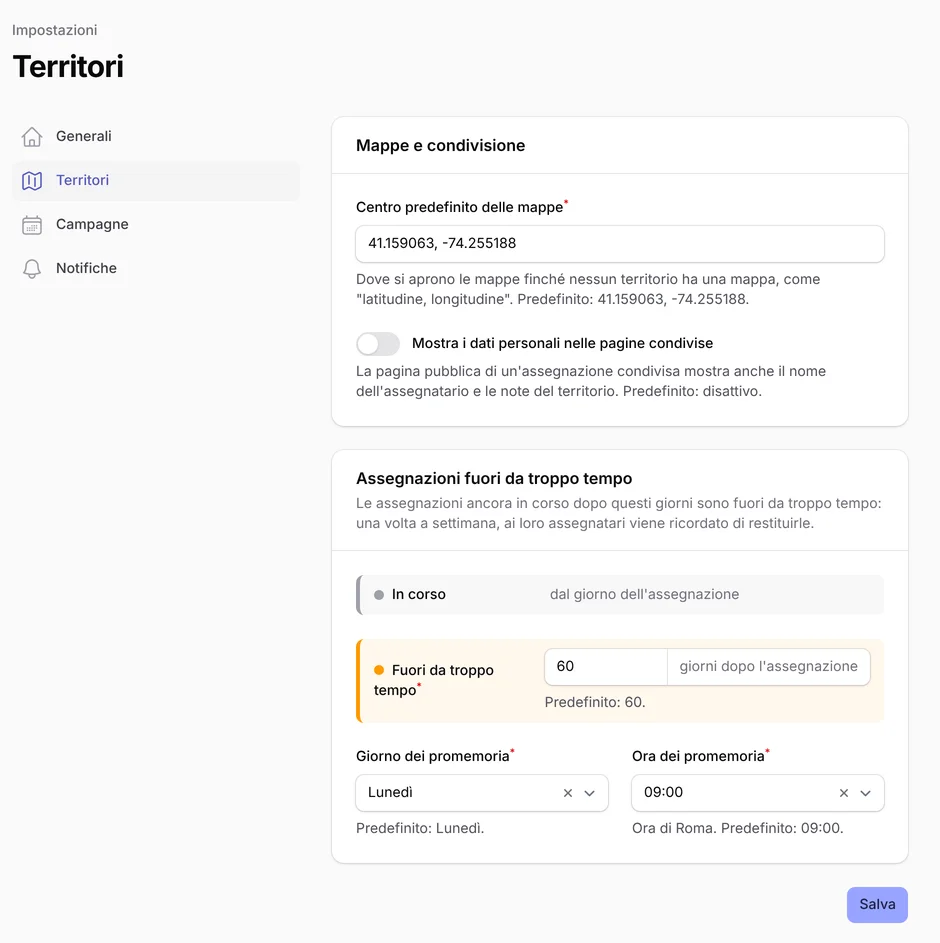
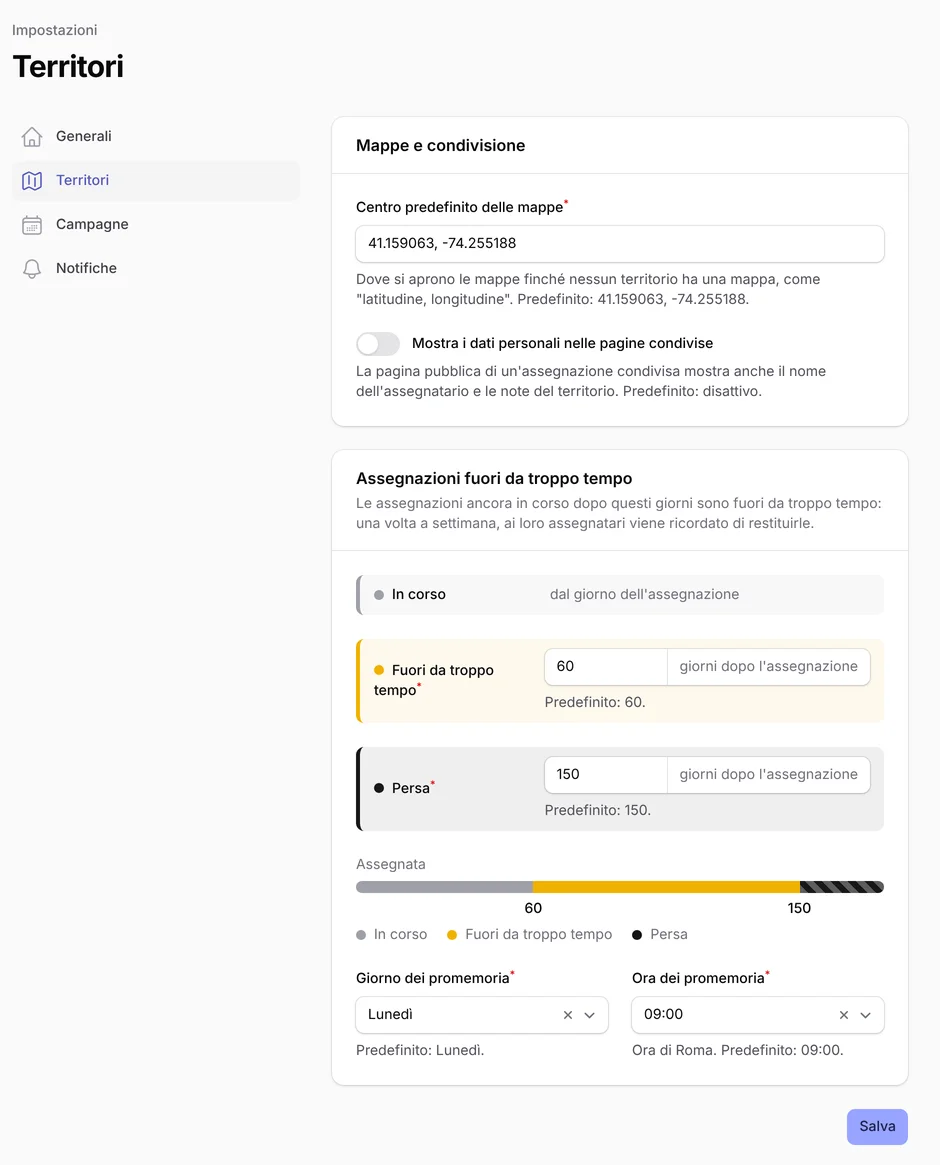
refactor: keep two stale assignment levels
Restore the stale levels removed in 51572a1, keeping only "out for too
long" (60 days) and "lost" (150 days).

diff --git a/tests/Feature/SettingsPageTest.php b/tests/Feature/SettingsPageTest.php
@@ -303,15 +303,18 @@ test('the primary colour must be a hex colour', function () {
         ->assertHasFormErrors(['primary_color']);
 });
 
-test('the days set on the page are used to find the assignments out for too long', function () {
+test('the stale assignment levels are used to find the assignments out for too long', function () {
     actingAsSuperAdmin();
 
     Livewire::test(ManageTerritorySettings::class)
-        ->fillForm(['stale_after_days' => 30])
+        ->fillForm([
+            'stale_after_days' => 30,
+            'dead_after_days' => 75,
+        ])
         ->call('save')
         ->assertHasNoFormErrors();
 
-    expect(app(TerritorySettings::class)->stale_after_days)->toBe(30);
+    expect(array_keys((new DetectStaleAssignments)->getStaleLevels()))->toBe([30, 75]);
 
     $assignee = User::factory()->create();
     $zone = TerritoryZone::factory()->create();
@@ -334,16 +337,19 @@ test('the days set on the page are used to find the assignments out for too long
     Event::assertDispatched(StaleAssignmentDetected::class, fn (StaleAssignmentDetected $event): bool => $event->assignment->is($staleAssignment));
 });
 
-test('the days after which an assignment is out for too long must be positive', function (int $days) {
+test('the stale assignment levels must grow', function () {
     actingAsSuperAdmin();
 
     Livewire::test(ManageTerritorySettings::class)
-        ->fillForm(['stale_after_days' => $days])
+        ->fillForm([
+            'stale_after_days' => 60,
+            'dead_after_days' => 50,
+        ])
         ->call('save')
-        ->assertHasFormErrors(['stale_after_days']);
+        ->assertHasFormErrors(['dead_after_days']);
 
-    expect(app(TerritorySettings::class)->stale_after_days)->toBe(60);
-})->with(['zero' => 0, 'negative' => -5]);
+    expect(app(TerritorySettings::class)->dead_after_days)->toBe(150);
+});
 
 test('the stale assignments are checked on the chosen day and time', function () {
     actingAsSuperAdmin();
@@ -431,12 +437,14 @@ test('the campaign thresholds are shown in the order of the statuses, with a bar
         ->assertSeeHtml('fi-settings-stages-bar');
 });
 
-test('the stale assignment threshold is shown after the assignments in progress', function () {
+test('the stale assignment levels are shown in order, with a bar to scale', function () {
     actingAsSuperAdmin();
 
     Livewire::test(ManageTerritorySettings::class)
         ->assertSeeInOrder([
             __('settings.stages.in_progress'),
             __('settings.fields.stale_after_days.label'),
-        ]);
+            __('settings.fields.dead_after_days.label'),
+        ])
+        ->assertSeeHtml('fi-settings-stages-bar');
 });

diff --git a/app/Filament/Clusters/Settings/Pages/ManageTerritorySettings.php b/app/Filament/Clusters/Settings/Pages/ManageTerritorySettings.php
@@ -12,6 +12,7 @@ use Filament\Forms\Components\TextInput;
 use Filament\Forms\Components\Toggle;
 use Filament\Schemas\Components\Section;
 use Filament\Schemas\Schema;
+use Filament\Support\Colors\Color;
 use Filament\Support\Icons\Heroicon;
 
 class ManageTerritorySettings extends AppSettingsPage
@@ -38,7 +39,8 @@ class ManageTerritorySettings extends AppSettingsPage
     {
         $staleStages = [
             ['name' => __('settings.stages.in_progress'), 'color' => 'var(--gray-400)'],
-            ['name' => __('settings.fields.stale_after_days.label'), 'color' => 'var(--warning-500)', 'field' => 'stale_after_days'],
+            ['name' => __('settings.fields.stale_after_days.label'), 'color' => Color::Yellow[500], 'field' => 'stale_after_days'],
+            ['name' => __('settings.fields.dead_after_days.label'), 'color' => Color::Neutral[900], 'field' => 'dead_after_days'],
         ];
         $unit = __('settings.units.days_after_assignment');
 
@@ -74,6 +76,10 @@ class ManageTerritorySettings extends AppSettingsPage
                         $this->stageInput('stale_after_days', $staleStages[1]['name'], $staleStages[1]['color'], $unit)
                             ->minValue(1)
                             ->maxValue(3650),
+                        $this->stageInput('dead_after_days', $staleStages[2]['name'], $staleStages[2]['color'], $unit)
+                            ->maxValue(3650)
+                            ->gt('stale_after_days'),
+                        $this->stagesBar($staleStages, isCountdown: false, startLabel: __('settings.stages.assigned'), endLabel: ''),
                         Select::make('stale_check_day')
                             ->label(__('settings.fields.stale_check_day.label'))
                             ->helperText($this->defaultHint(self::dayOptions()[$this->defaultValue('stale_check_day')]))
@@ -137,7 +143,9 @@ class ManageTerritorySettings extends AppSettingsPage
         $data['shared_pii'] = (bool) $data['shared_pii'];
         $data['stale_check_day'] = (int) $data['stale_check_day'];
 
-        $data['stale_after_days'] = (int) $data['stale_after_days'];
+        foreach (['stale_after_days', 'dead_after_days'] as $property) {
+            $data[$property] = (int) $data[$property];
+        }
 
         return parent::mutateFormDataBeforeSave($data);
     }

diff --git a/app/Jobs/DetectStaleAssignments.php b/app/Jobs/DetectStaleAssignments.php
@@ -22,6 +22,22 @@ class DetectStaleAssignments implements ShouldBeUnique, ShouldQueue
         //
     }
 
+    public function getStaleLevels(): array
+    {
+        return [
+            TerritorySettings::value('stale_after_days') => [
+                'label' => 'stale',
+                'description' => 'Assignment is stale',
+                'color' => 'yellow',
+            ],
+            TerritorySettings::value('dead_after_days') => [
+                'label' => 'dead',
+                'description' => 'Assignment is dead',
+                'color' => 'black',
+            ],
+        ];
+    }
+
     /**
      * Execute the job.
      */
@@ -29,8 +45,8 @@ class DetectStaleAssignments implements ShouldBeUnique, ShouldQueue
     {
         Log::info('DetectStaleAssignments job started.');
 
-        // An assignment is stale when it has been open for longer than the days set on the Settings page
-        $staleAfterDays = TerritorySettings::value('stale_after_days');
+        // An assignment is stale when it has been open for longer than the lowest stale level
+        $staleAfterDays = min(array_keys($this->getStaleLevels()));
 
         TerritoryAssignment::query()
             // Skip the assignments whose territory (or its zone) has been deleted while still assigned

diff --git a/lang/es/settings.php b/lang/es/settings.php
@@ -17,6 +17,7 @@ return [
         'in_progress' => 'En curso',
         'in_progress_note' => 'desde el día de la asignación',
         'end_date' => 'Fecha de fin',
+        'assigned' => 'Asignada',
     ],
 
     'pages' => [
@@ -65,6 +66,9 @@ return [
         ],
         'stale_after_days' => [
             'label' => 'Fuera demasiado tiempo',
+        ],
+        'dead_after_days' => [
+            'label' => 'Perdida',
         ],
         'stale_check_day' => [
             'label' => 'Día de los recordatorios',

diff --git a/lang/it/settings.php b/lang/it/settings.php
@@ -17,6 +17,7 @@ return [
         'in_progress' => 'In corso',
         'in_progress_note' => 'dal giorno dell\'assegnazione',
         'end_date' => 'Data di fine',
+        'assigned' => 'Assegnata',
     ],
 
     'pages' => [
@@ -65,6 +66,9 @@ return [
         ],
         'stale_after_days' => [
             'label' => 'Fuori da troppo tempo',
+        ],
+        'dead_after_days' => [
+            'label' => 'Persa',
         ],
         'stale_check_day' => [
             'label' => 'Giorno dei promemoria',

diff --git a/lang/en/settings.php b/lang/en/settings.php
@@ -17,6 +17,7 @@ return [
         'in_progress' => 'In progress',
         'in_progress_note' => 'from the day of the assignment',
         'end_date' => 'End date',
+        'assigned' => 'Assigned',
     ],
 
     'pages' => [
@@ -65,6 +66,9 @@ return [
         ],
         'stale_after_days' => [
             'label' => 'Out for too long',
+        ],
+        'dead_after_days' => [
+            'label' => 'Lost',
         ],
         'stale_check_day' => [
             'label' => 'Day of the reminders',

diff --git a/database/settings/2026_11_18_142053_create_application_settings.php b/database/settings/2026_11_18_142053_create_application_settings.php
@@ -20,6 +20,7 @@ return new class extends SettingsMigration
         $this->migrator->add('territories.map_default_center');
         $this->migrator->add('territories.shared_pii');
         $this->migrator->add('territories.stale_after_days', 60);
+        $this->migrator->add('territories.dead_after_days', 150);
         $this->migrator->add('territories.stale_check_day', Schedule::MONDAY);
         $this->migrator->add('territories.stale_check_time', '09:00');
 

diff --git a/app/Settings/TerritorySettings.php b/app/Settings/TerritorySettings.php
@@ -24,6 +24,11 @@ class TerritorySettings extends ConfigSettings
     public int $stale_after_days = 60;
 
     /**
+     * Days after which an assignment in progress is considered lost.
+     */
+    public int $dead_after_days = 150;
+
+    /**
      * Day of the week of the check of the stale assignments (0 = Sunday, 1 = Monday, …).
      */
     public int $stale_check_day = Schedule::MONDAY;

diff --git a/docs/user-documentation/it/administration/settings.md b/docs/user-documentation/it/administration/settings.md
@@ -29,10 +29,11 @@ ruolo `super_admin`. Le opzioni sono raggruppate per area, con una pagina ciascu
 - **Mostra i dati personali nelle pagine condivise**: se attivo, la pagina pubblica di
   un'[assegnazione condivisa](../assignments/sharing) mostra anche il nome dell'assegnatario e le note del territorio.
 
-In **Assegnazioni fuori da troppo tempo**:
+In **Assegnazioni fuori da troppo tempo** i livelli sono elencati in ordine, ognuno con il suo colore, e la barra sotto
+li disegna in scala mentre scrivi:
 
-- i giorni dopo cui un'assegnazione ancora in corso è fuori da troppo tempo, e al suo assegnatario viene ricordato di
-  restituirla;
+- i giorni dopo cui un'assegnazione ancora in corso è fuori da troppo tempo e poi persa: questi ultimi devono essere di
+  più;
 - il **giorno** e l'**ora** (ora di Roma, allo scoccare dell'ora) dei promemoria settimanali inviati agli assegnatari
   delle assegnazioni fuori da troppo tempo. Su un hosting senza cron, il servizio esterno deve chiamare lo scheduler a
   quell'ora (vedi la [Guida al setup](../setup)).

diff --git a/docs/user-documentation/en/administration/settings.md b/docs/user-documentation/en/administration/settings.md
@@ -29,9 +29,10 @@ role. The options are grouped by area, with one page each in the menu on the sid
 - **Show personal data on shared pages**: when on, the public page of a [shared assignment](../assignments/sharing)
   also shows the name of the assignee and the notes of the territory.
 
-Under **Assignments out for too long**:
+Under **Assignments out for too long** the levels are listed in order, each with its colour, and the bar below draws
+them to scale while you type:
 
-- the days after which an assignment still in progress is out for too long, and its assignee is reminded to return it;
+- the days after which an assignment still in progress is out for too long and then lost: the latter must be more;
 - the **day** and **time** (Rome time, on the hour) of the weekly reminders sent to the assignees of the assignments out
   for too long. On a hosting without cron, the external service must call the scheduler at that time (see the
   [Setup guide](../setup)).
